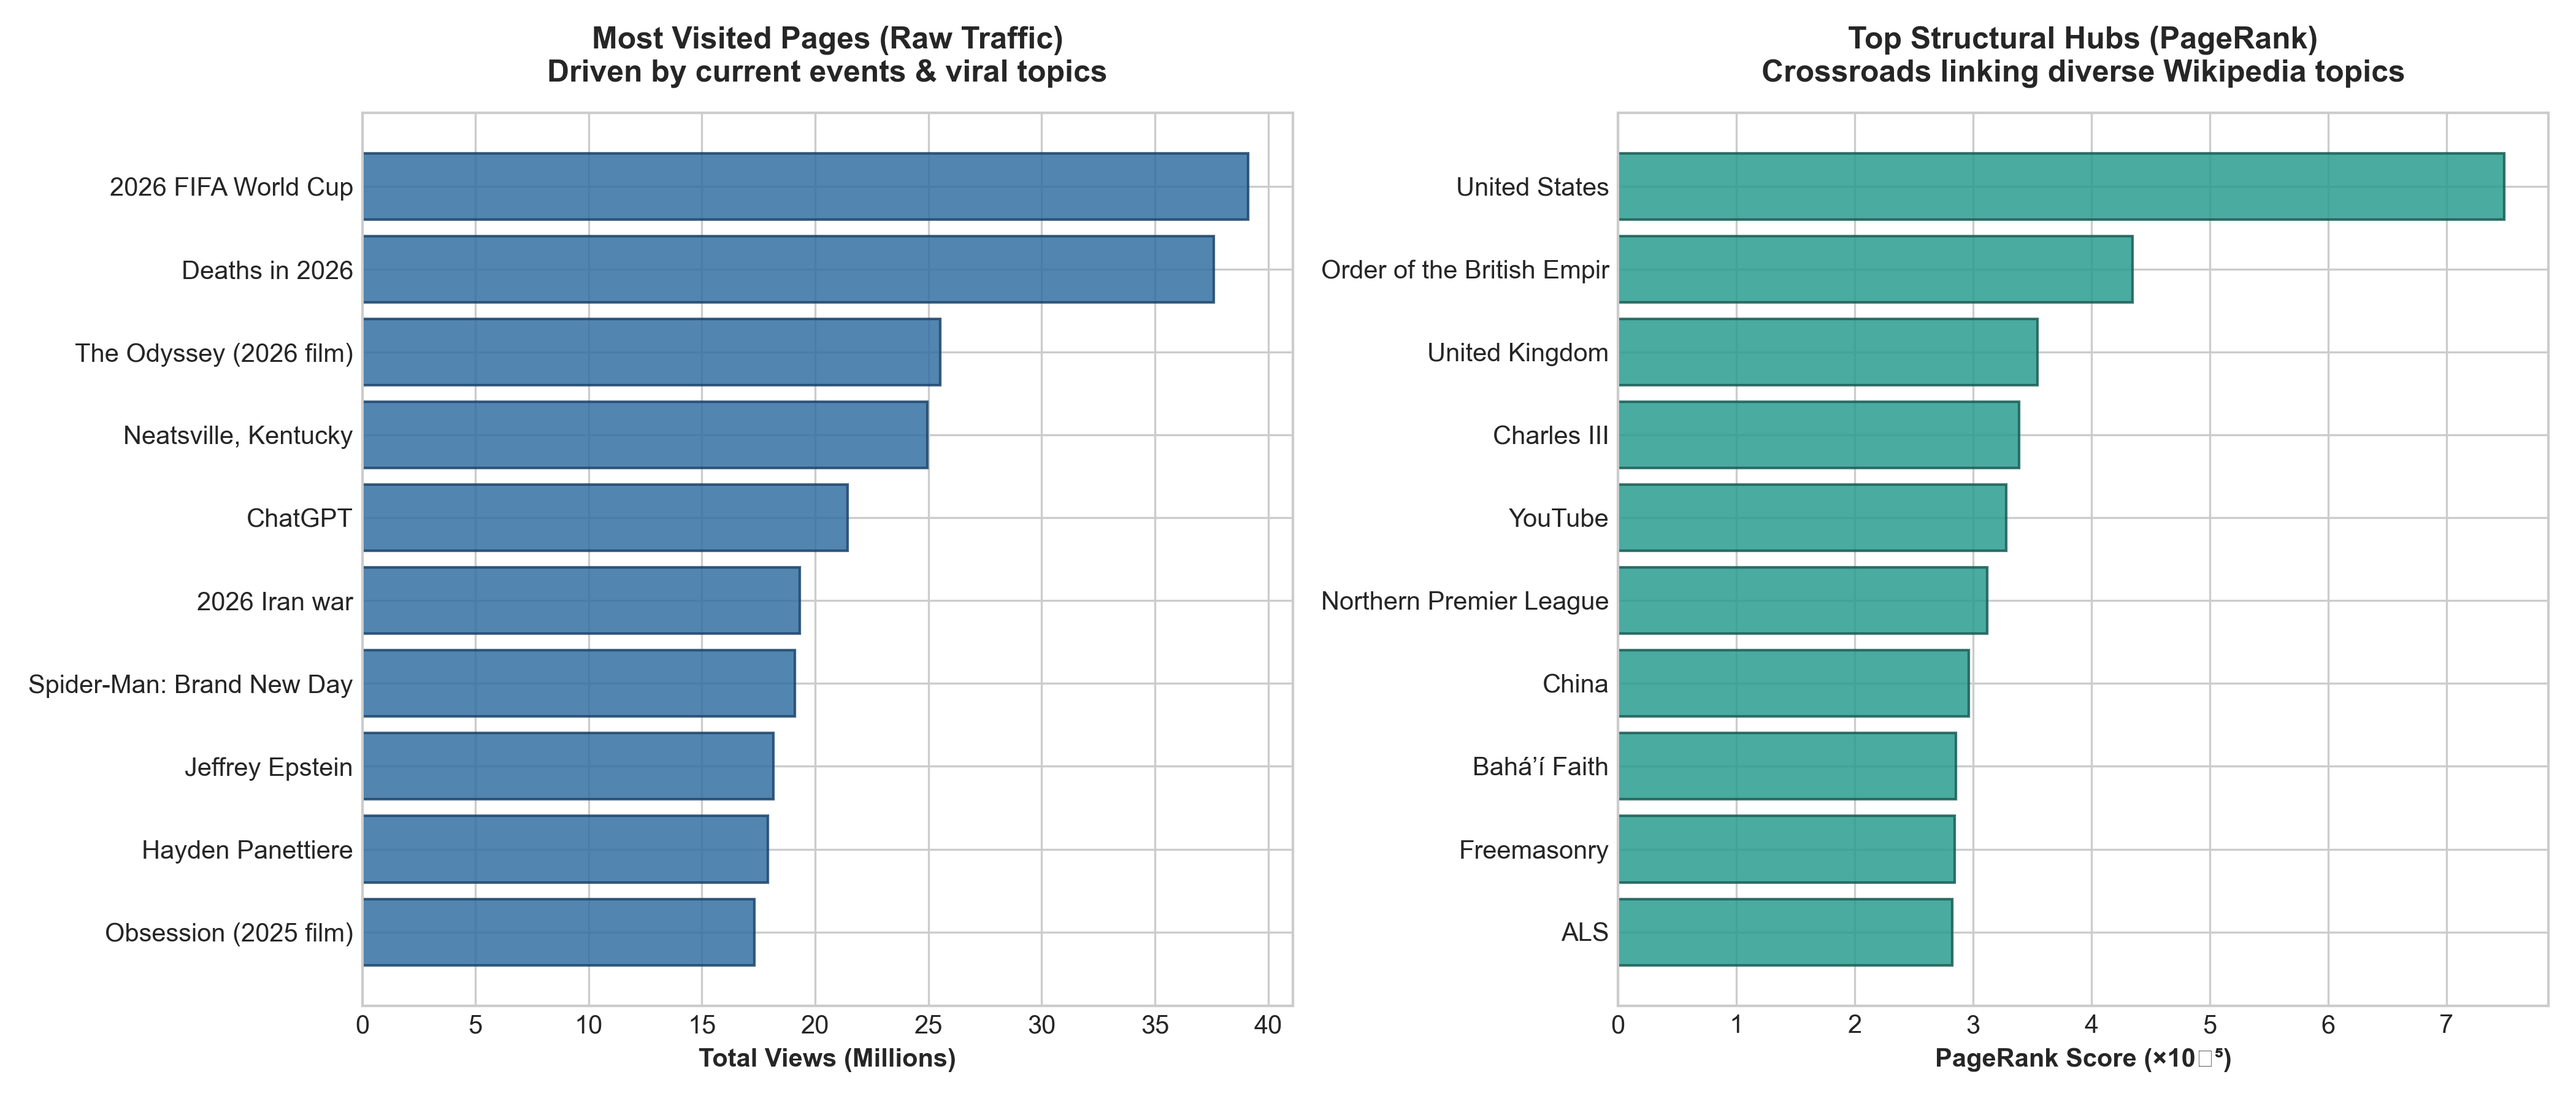
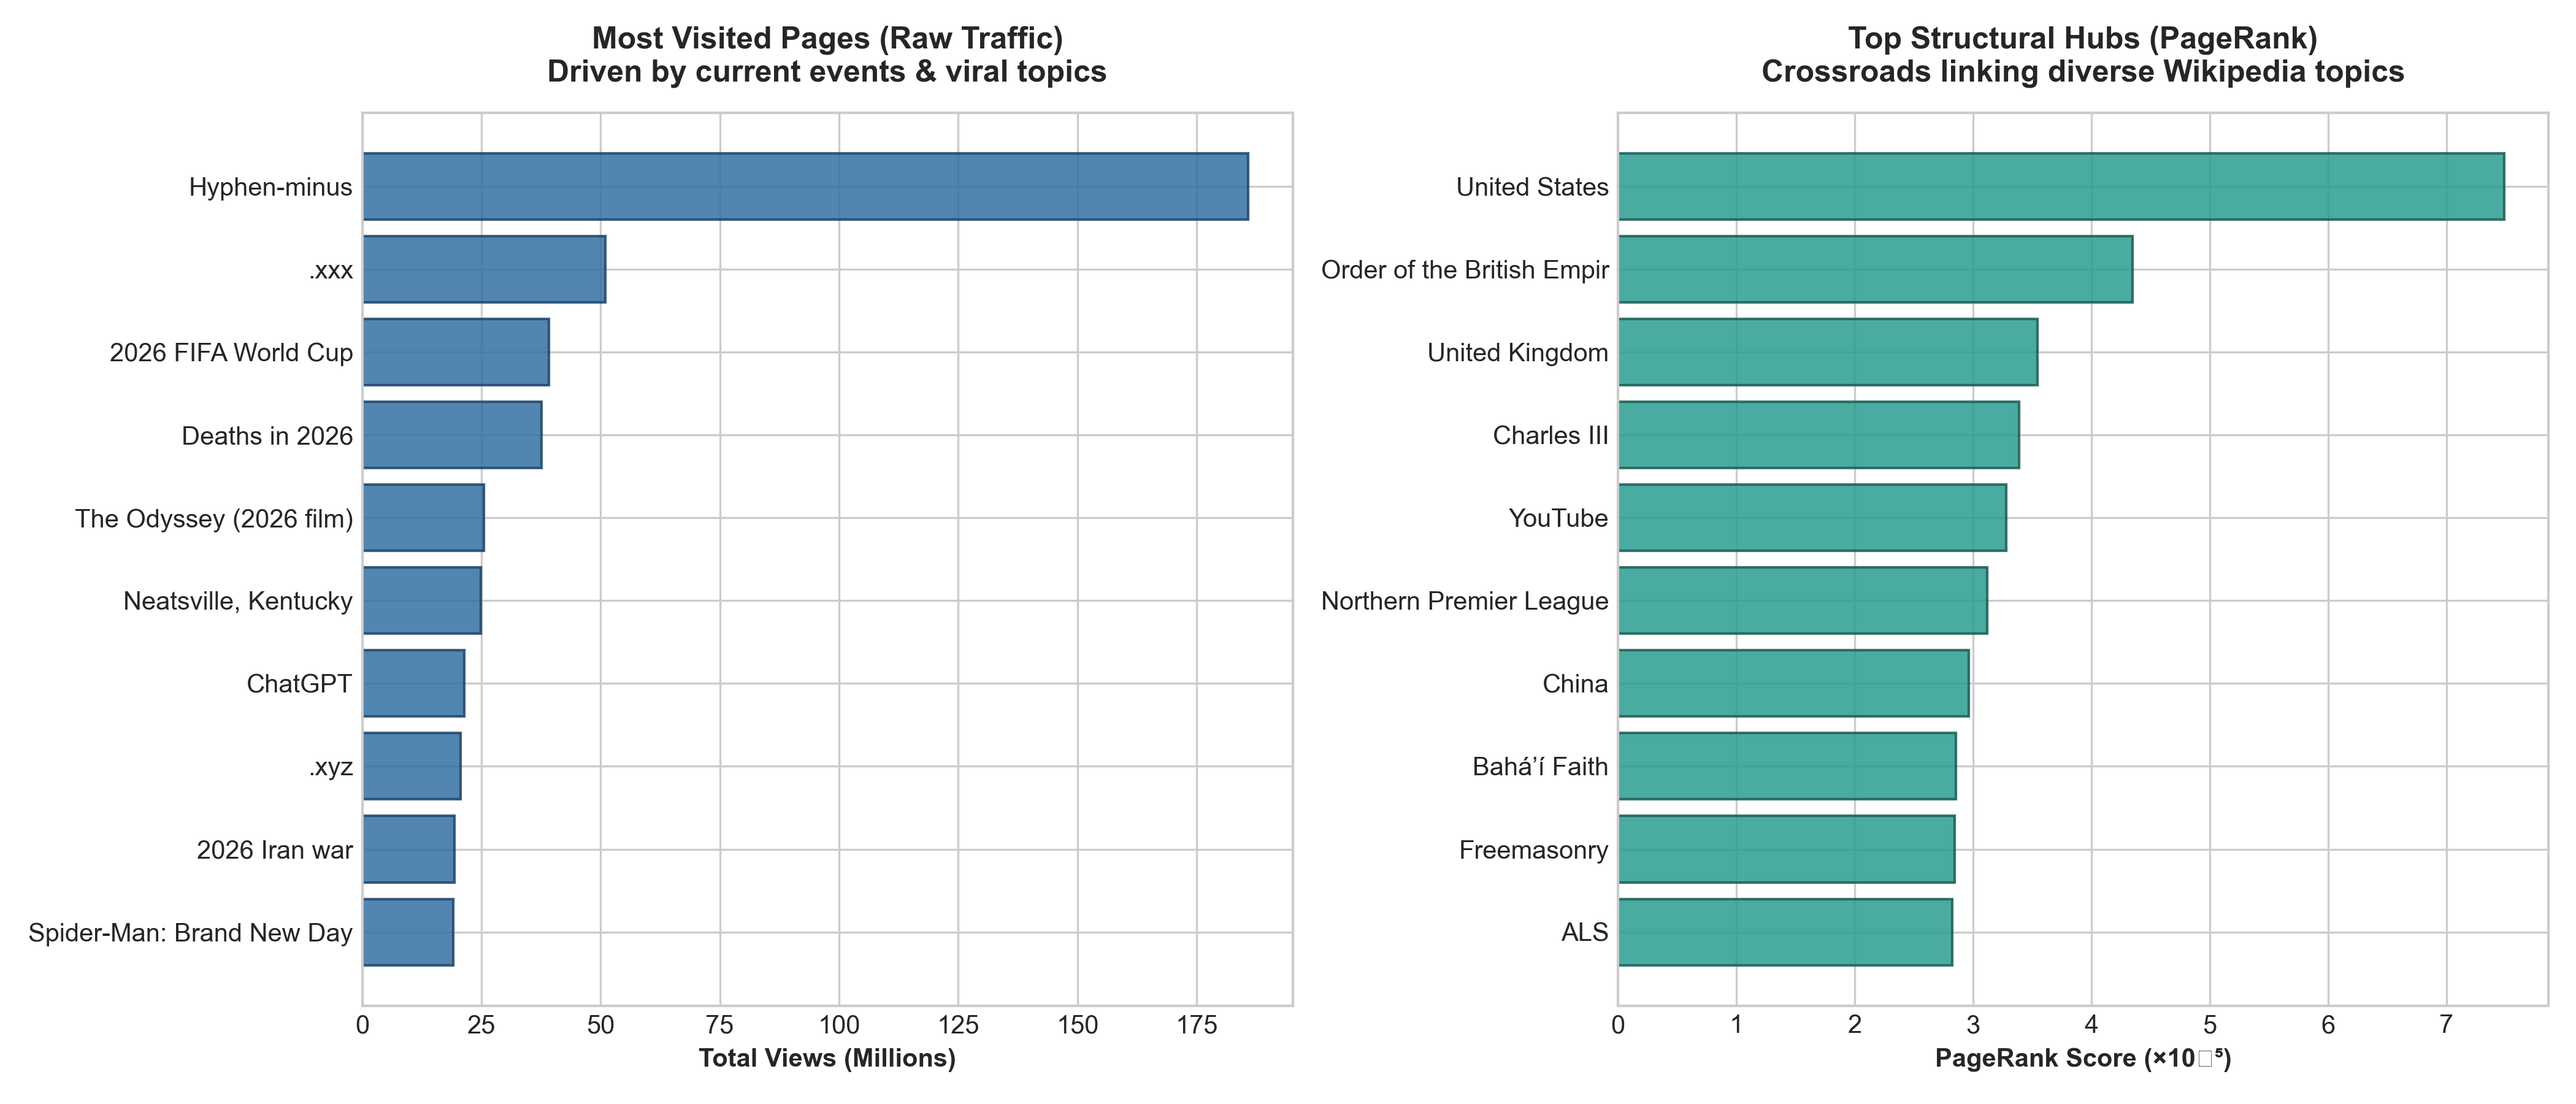
modified charts

diff --git a/visualizations.py b/visualizations.py
@@ -20,7 +20,7 @@ def clean_title(t):
     return str(t).replace("_", " ")[:26]
 
 # Filter out technical landing pages (like Main_Page, Hyphen-minus, .xxx) for a clean article comparison
-non_articles = ["Main_Page", "Hyphen-minus", ".xxx", ".xyz"]
+non_articles = ["Main_Page"]
 clean_views = df_views[~df_views["title"].isin(non_articles)].head(10)
 clean_pr = df_pr.head(10)
 
